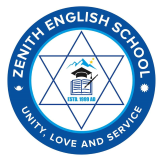
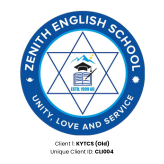
change 0.16: client photos updated

diff --git a/src/components/pages/TnC_Body.jsx b/src/components/pages/TnC_Body.jsx
@@ -22,7 +22,7 @@ export default function TnC_Body({ setNavTarget }) {
                 </p>
                 <h2>4. Use of Services</h2>
                 <p>
-                    You may interact with the services offered on this website, including filling out forms such as the <strong className="important">Contact Form</strong> and <strong sclassName="important">Request to Add New Webpage Form</strong>. You agree that:
+                    You may interact with the services offered on this website, including filling out forms such as the <strong className="important">Contact Form</strong> and <strong className="important">Request to Add New Webpage Form</strong>. You agree that:
                     <ul>
                         <li>All information you provide is accurate and complete.</li>
                         <li>You will not submit any content or requests that violate the laws of the Government of Nepal or infringe on the rights of third parties.</li>

diff --git a/src/assets/css/style.css b/src/assets/css/style.css
@@ -110,7 +110,7 @@
   box-sizing: border-box;
 }
 
-a {
+a:not(.clients-item a) {
   text-decoration: none;
   color: inherit;
   opacity: .7;
@@ -766,6 +766,10 @@ main {
 .testimonials-avatar-box img {
   border-radius: inherit;
   border: 2px solid var(--orange-yellow-crayola);
+  /* width: clamp(50px, 1vw, 80px); */
+  max-height: 80px;
+  min-height: 50px;
+  height: auto;
 }
 
 .testimonials-item-title {
@@ -954,6 +958,7 @@ main {
   scroll-snap-align: start;
   background-color: var(--white-2);
   border-radius: 8px;
+  overflow: hidden;
 }
 
 .clients-item a {
@@ -966,14 +971,14 @@ main {
 
 .clients-item img {
   width: 100%;
-  filter: grayscale(1);
+  /* filter: grayscale(1); */
   transition: var(--transition-1);
-  border-radius: 14px;
+  /* border-radius: 14px; */
 }
 
-.clients-item:hover img {
+/* .clients-item:hover img {
   filter: grayscale(0);
-}
+} */
 
 /* ----------------------------------- *\
    #RESUME

diff --git a/src/components/importImage/SiteImages.jsx b/src/components/importImage/SiteImages.jsx
@@ -43,7 +43,7 @@ export {Blog1Thumbnail, Blog2Thumbnail, Blog3Thumbnail, Blog4Thumbnail, Blog5Thu
         Blog31Thumbnail, Blog32Thumbnail, Blog33Thumbnail, Blog34Thumbnail, Blog35Thumbnail, Blog36Thumbnail, Blog37Thumbnail}
 
 // Client Images
-import Client1Thumbnail from '../../assets/images/client/client_1.avif'
+import Client1Thumbnail from '../../assets/images/client/client_1.png'
 import Client2Thumbnail from '../../assets/images/client/client_2.png'
 import Client3Thumbnail from '../../assets/images/client/client_3.png'
 import Client4Thumbnail from '../../assets/images/client/client_4.png'
